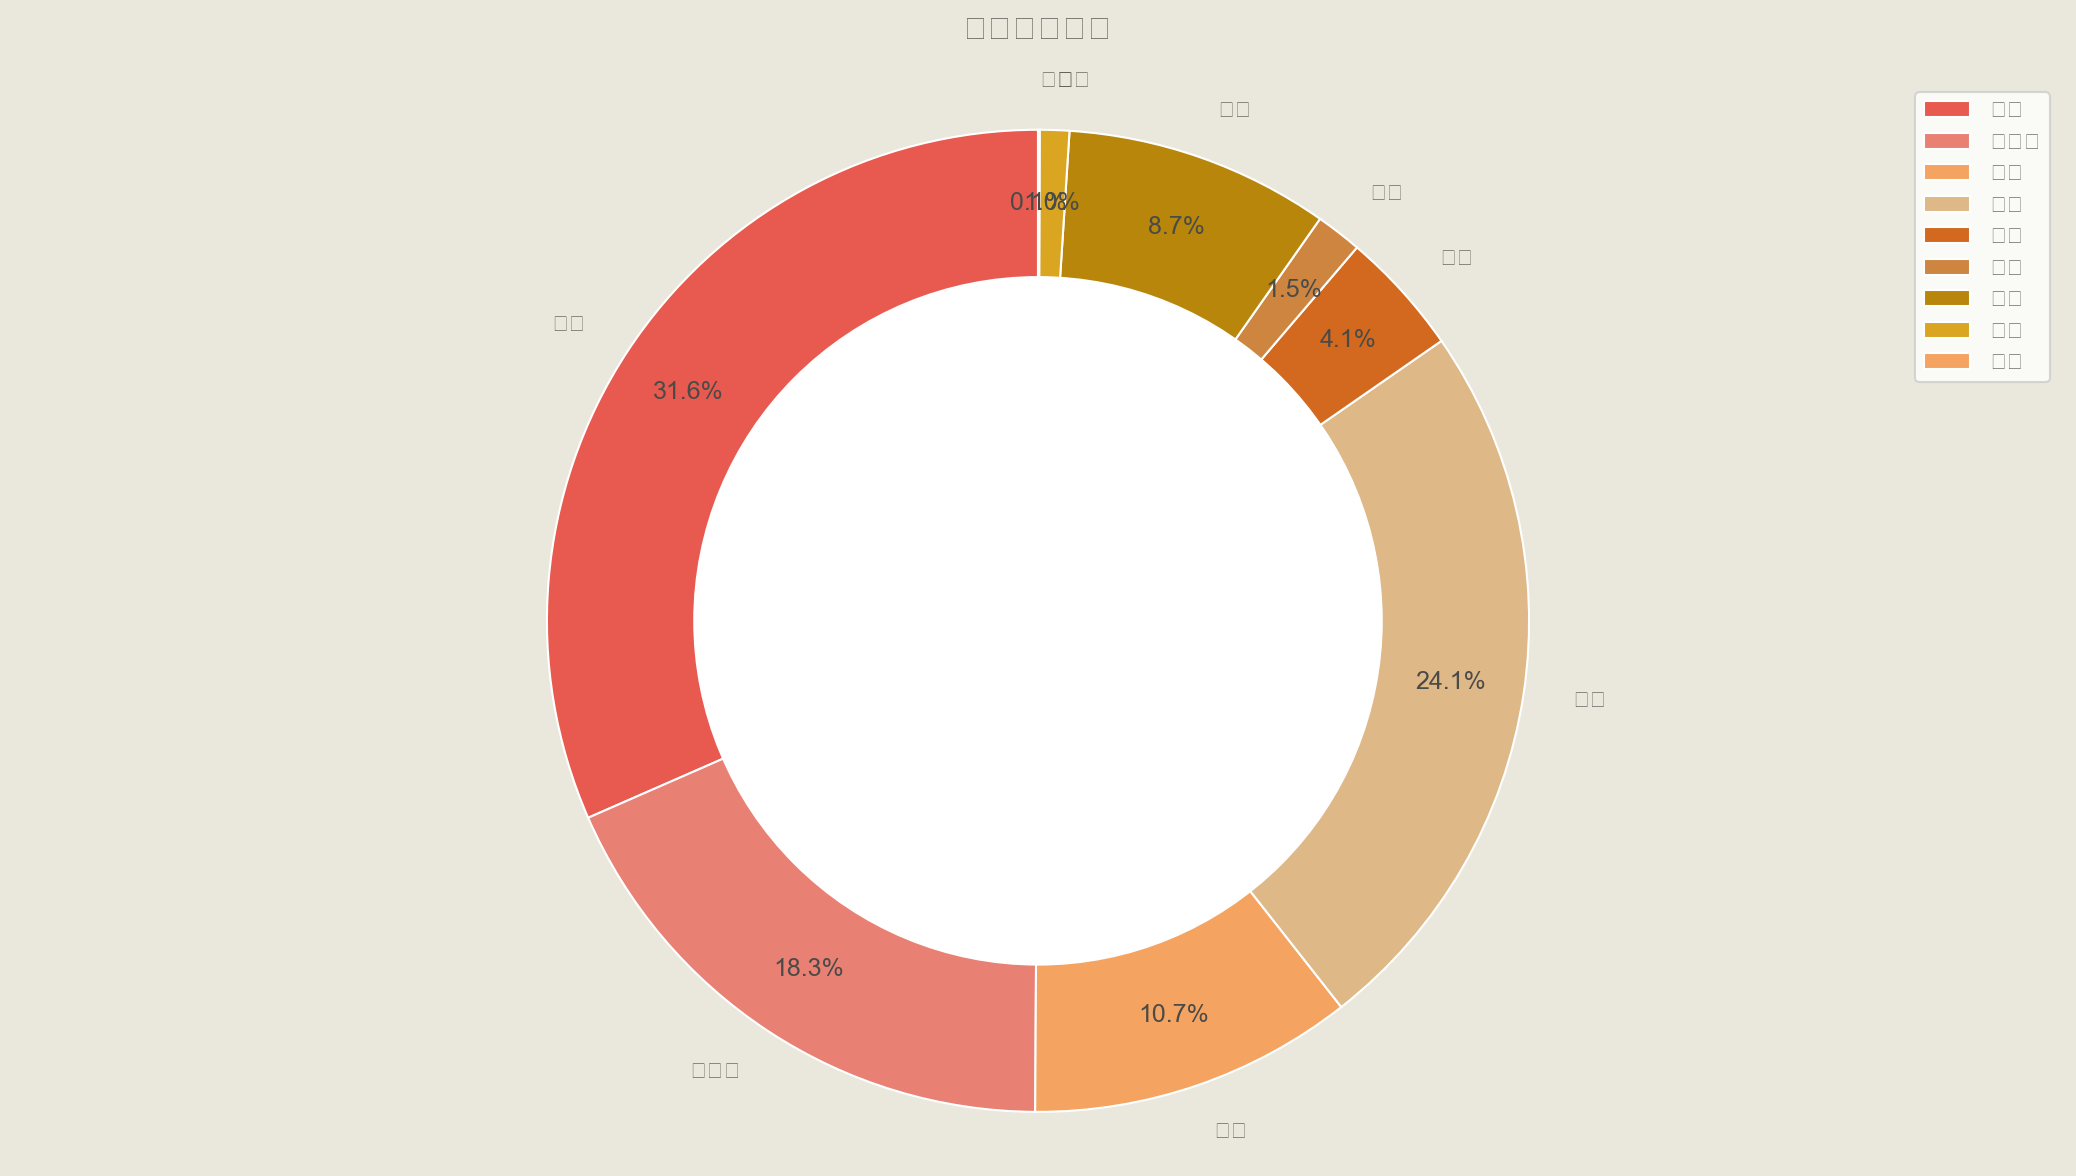
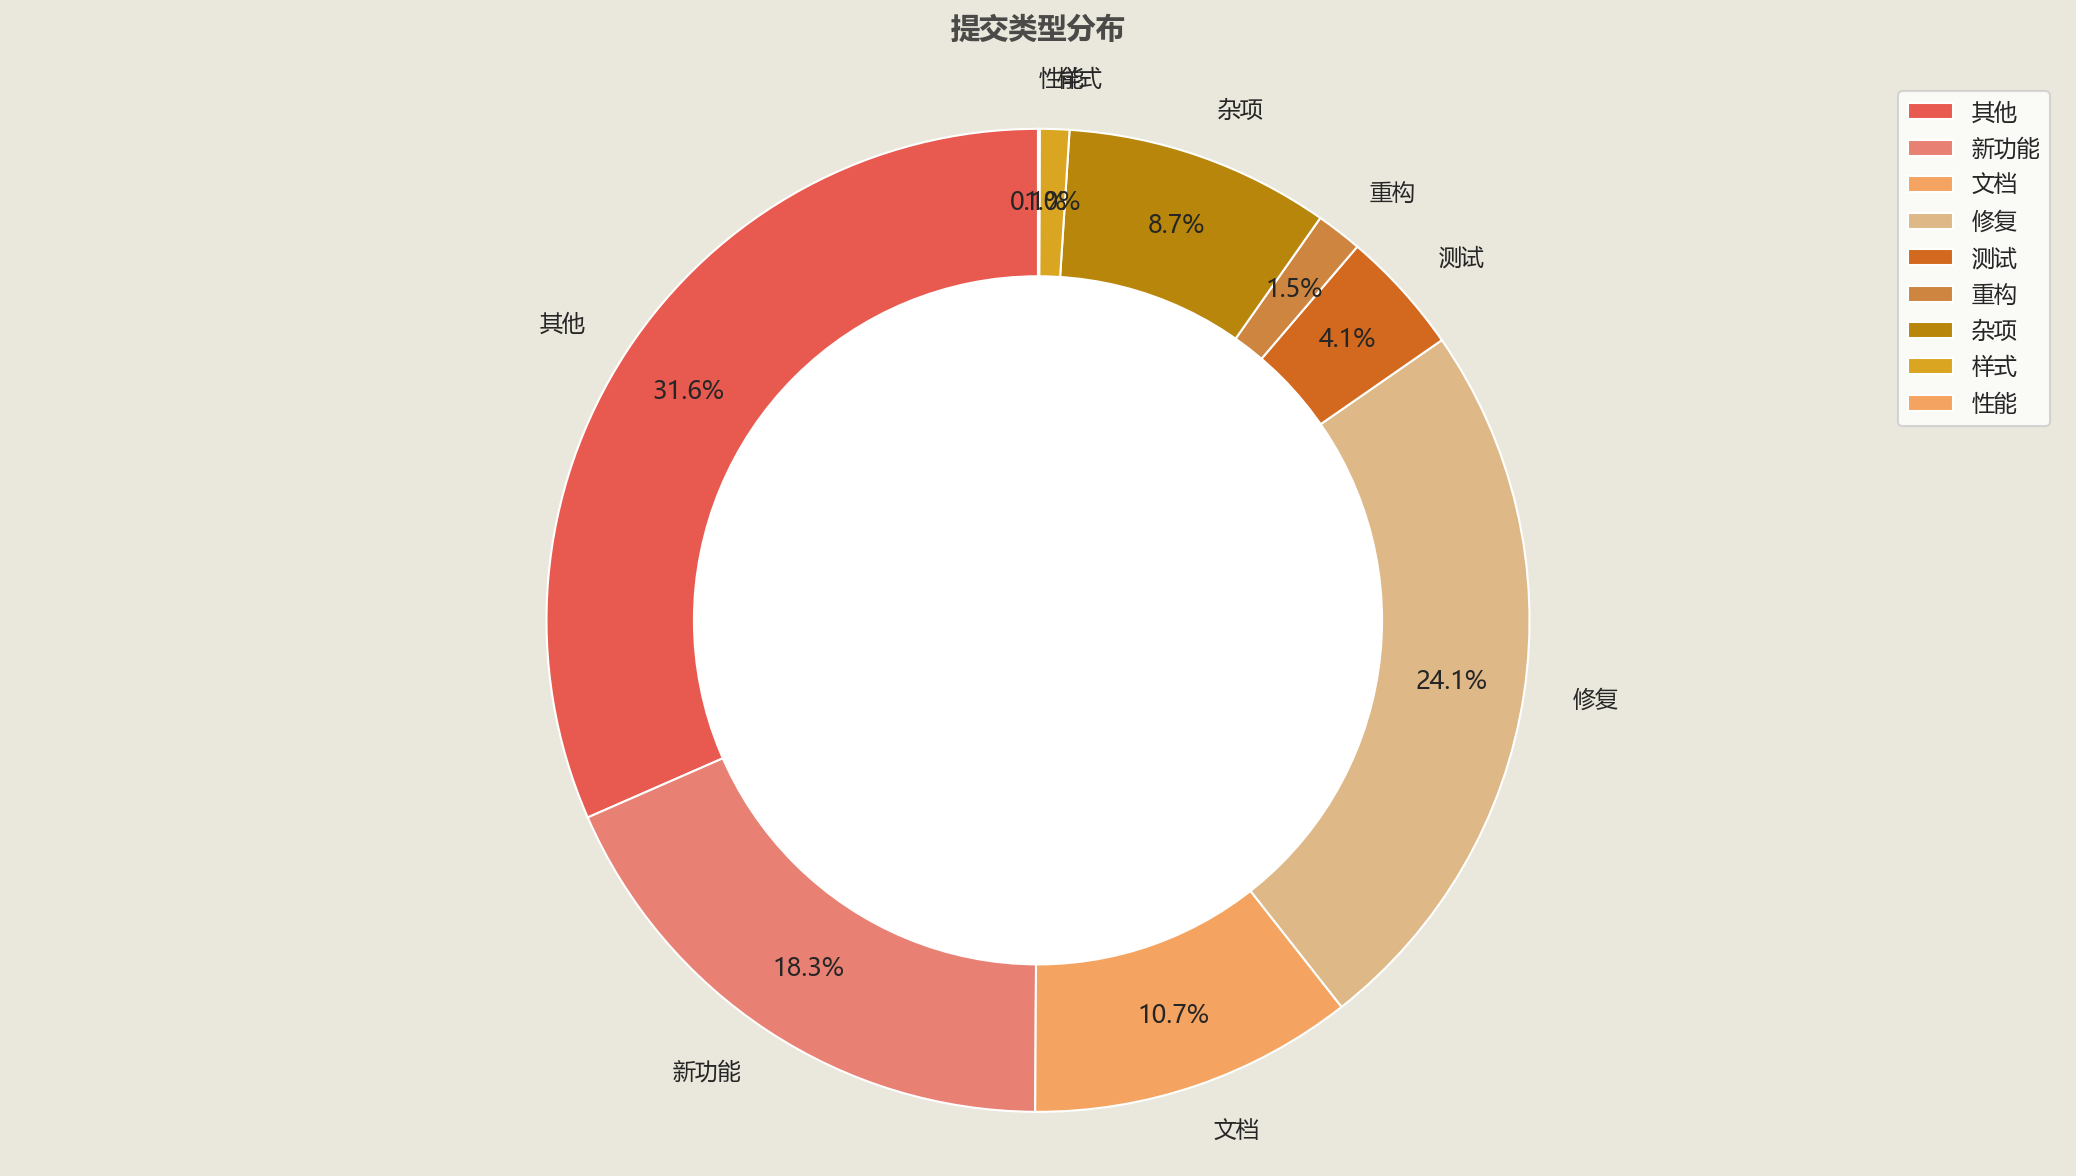
fix: 修复中文字体显示方块问题

diff --git a/src/analyzers/loc_analyzer.py b/src/analyzers/loc_analyzer.py
@@ -1,0 +1,137 @@
+# -*- coding: utf-8 -*-
+"""
+代码行数统计分析模块
+"""
+
+import os
+from pathlib import Path
+from typing import Dict, List, Tuple
+from collections import defaultdict
+import logging
+
+logger = logging.getLogger(__name__)
+
+LANGUAGE_EXTENSIONS = {
+    ".py": "Python",
+    ".js": "JavaScript",
+    ".ts": "TypeScript",
+    ".html": "HTML",
+    ".css": "CSS",
+    ".json": "JSON",
+    ".md": "Markdown",
+    ".rst": "reStructuredText",
+    ".yml": "YAML",
+    ".yaml": "YAML",
+    ".txt": "Text",
+    ".sh": "Shell",
+    ".bat": "Batch",
+    ".sql": "SQL",
+    ".xml": "XML",
+    ".toml": "TOML",
+    ".ini": "INI",
+    ".cfg": "Config",
+}
+
+IGNORE_DIRS = {
+    "__pycache__", ".git", ".svn", ".hg", "node_modules",
+    "venv", ".venv", "env", ".env", "build", "dist",
+    ".tox", ".pytest_cache", ".mypy_cache", ".eggs",
+}
+
+
+class LOCAnalyzer:
+    """代码行数分析器"""
+    
+    def __init__(self, root_path: str):
+        self.root_path = Path(root_path)
+        self.stats: Dict[str, Dict] = defaultdict(lambda: {"files": 0, "lines": 0, "blank": 0, "comment": 0})
+    
+    def count_lines(self, file_path: Path) -> Tuple[int, int, int]:
+        """
+        统计文件行数
+        
+        Returns:
+            (总行数, 空行数, 注释行数)
+        """
+        total = 0
+        blank = 0
+        comment = 0
+        
+        try:
+            with open(file_path, "r", encoding="utf-8", errors="ignore") as f:
+                in_multiline_comment = False
+                
+                for line in f:
+                    total += 1
+                    stripped = line.strip()
+                    
+                    if not stripped:
+                        blank += 1
+                        continue
+                    
+                    if file_path.suffix == ".py":
+                        if stripped.startswith('"""') or stripped.startswith("'''"):
+                            if in_multiline_comment:
+                                in_multiline_comment = False
+                            else:
+                                in_multiline_comment = True
+                            comment += 1
+                        elif in_multiline_comment:
+                            comment += 1
+                        elif stripped.startswith("#"):
+                            comment += 1
+                    elif file_path.suffix in [".js", ".ts", ".css"]:
+                        if stripped.startswith("//"):
+                            comment += 1
+                        elif stripped.startswith("/*"):
+                            in_multiline_comment = True
+                            comment += 1
+                        elif stripped.endswith("*/"):
+                            in_multiline_comment = False
+                            comment += 1
+                        elif in_multiline_comment:
+                            comment += 1
+                    elif file_path.suffix == ".html":
+                        if "<!--" in stripped:
+                            comment += 1
+                            
+        except Exception as e:
+            logger.debug(f"无法读取文件 {file_path}: {e}")
+        
+        return total, blank, comment
+    
+    def analyze(self) -> Dict[str, Dict]:
+        """分析整个目录"""
+        for root, dirs, files in os.walk(self.root_path):
+            dirs[:] = [d for d in dirs if d not in IGNORE_DIRS]
+            
+            for filename in files:
+                file_path = Path(root) / filename
+                ext = file_path.suffix.lower()
+                
+                if ext in LANGUAGE_EXTENSIONS:
+                    lang = LANGUAGE_EXTENSIONS[ext]
+                    total, blank, comment = self.count_lines(file_path)
+                    
+                    self.stats[lang]["files"] += 1
+                    self.stats[lang]["lines"] += total
+                    self.stats[lang]["blank"] += blank
+                    self.stats[lang]["comment"] += comment
+        
+        return dict(self.stats)
+    
+    def get_summary(self) -> Dict:
+        """获取汇总统计"""
+        total_files = sum(s["files"] for s in self.stats.values())
+        total_lines = sum(s["lines"] for s in self.stats.values())
+        total_blank = sum(s["blank"] for s in self.stats.values())
+        total_comment = sum(s["comment"] for s in self.stats.values())
+        
+        return {
+            "total_files": total_files,
+            "total_lines": total_lines,
+            "total_blank": total_blank,
+            "total_comment": total_comment,
+            "code_lines": total_lines - total_blank - total_comment,
+            "by_language": dict(self.stats),
+        }

diff --git a/src/utils/font_config.py b/src/utils/font_config.py
@@ -1,80 +1,60 @@
 # -*- coding: utf-8 -*-
 """
 中文字体配置模块
-为matplotlib图表提供完整的中文显示支持
+确保matplotlib图表中文正常显示
 """
 
 import platform
-from pathlib import Path
-from typing import Optional
 import warnings
+from pathlib import Path
 
 import matplotlib.pyplot as plt
 import matplotlib.font_manager as fm
 
-_is_configured: bool = False
+_configured = False
 
 
 def configure_chinese_font() -> bool:
-    """
-    配置matplotlib使用中文字体
-    """
-    global _is_configured
+    """配置中文字体"""
+    global _configured
     
-    if _is_configured:
+    if _configured:
         return True
     
-    # 抑制字体警告
-    warnings.filterwarnings('ignore', category=UserWarning, module='matplotlib')
+    warnings.filterwarnings('ignore', category=UserWarning)
     
-    system = platform.system()
-    
-    if system == "Windows":
-        # Windows系统字体
-        font_options = [
-            "Microsoft YaHei",
-            "SimHei", 
-            "SimSun",
-            "KaiTi",
-        ]
-        
-        # 配置字体
-        plt.rcParams['font.sans-serif'] = font_options + ['DejaVu Sans']
-        plt.rcParams['font.family'] = 'sans-serif'
-        plt.rcParams['axes.unicode_minus'] = False
-        
-        # 尝试直接添加字体文件
-        font_paths = [
-            "C:/Windows/Fonts/msyh.ttc",
-            "C:/Windows/Fonts/simhei.ttf",
-        ]
-        
-        for fp in font_paths:
-            if Path(fp).exists():
-                try:
-                    fm.fontManager.addfont(fp)
-                except:
-                    pass
+    if platform.system() == "Windows":
+        font_path = Path("C:/Windows/Fonts/msyh.ttc")
+        if font_path.exists():
+            try:
+                fm.fontManager.addfont(str(font_path))
+                font_prop = fm.FontProperties(fname=str(font_path))
+                font_name = font_prop.get_name()
+                
+                plt.rcParams['font.sans-serif'] = [font_name, 'Microsoft YaHei', 'SimHei', 'DejaVu Sans']
+            except Exception as e:
+                plt.rcParams['font.sans-serif'] = ['Microsoft YaHei', 'SimHei', 'DejaVu Sans']
+        else:
+            plt.rcParams['font.sans-serif'] = ['Microsoft YaHei', 'SimHei', 'DejaVu Sans']
     else:
         plt.rcParams['font.sans-serif'] = ['DejaVu Sans']
-        plt.rcParams['axes.unicode_minus'] = False
     
-    _is_configured = True
+    plt.rcParams['font.family'] = 'sans-serif'
+    plt.rcParams['axes.unicode_minus'] = False
+    
+    _configured = True
     return True
 
 
-def get_chinese_font() -> Optional[fm.FontProperties]:
-    """获取中文字体属性对象"""
+def get_chinese_font():
+    """获取中文字体属性"""
     configure_chinese_font()
-    
-    font_path = "C:/Windows/Fonts/msyh.ttc"
-    if Path(font_path).exists():
-        return fm.FontProperties(fname=font_path)
-    
+    font_path = Path("C:/Windows/Fonts/msyh.ttc")
+    if font_path.exists():
+        return fm.FontProperties(fname=str(font_path))
     return None
 
 
 def get_font_name() -> str:
-    """获取配置的中文字体名称"""
-    configure_chinese_font()
+    """获取字体名称"""
     return "Microsoft YaHei"

diff --git a/src/visualizers/style.py b/src/visualizers/style.py
@@ -1,10 +1,11 @@
 # -*- coding: utf-8 -*-
 """
 样式模块
-提供暖色系配色和图表样式配置
+暖色系配色和图表样式
 """
 
 import matplotlib.pyplot as plt
+import matplotlib.font_manager as fm
 import seaborn as sns
 import warnings
 from typing import Dict, List, Any, Optional
@@ -19,29 +20,23 @@ from src.config import (
     FIGURE_DPI,
 )
 
-_style_configured = False
-
 
 def apply_style() -> None:
-    """
-    应用项目的视觉样式到matplotlib和seaborn
-    """
-    global _style_configured
-    
-    if _style_configured:
-        return
-    
+    """应用样式和中文字体"""
     warnings.filterwarnings('ignore', category=UserWarning)
     
     font_path = Path("C:/Windows/Fonts/msyh.ttc")
     if font_path.exists():
-        import matplotlib.font_manager as fm
         try:
             fm.fontManager.addfont(str(font_path))
+            font_prop = fm.FontProperties(fname=str(font_path))
+            font_name = font_prop.get_name()
+            plt.rcParams['font.sans-serif'] = [font_name, 'Microsoft YaHei', 'SimHei']
         except:
-            pass
+            plt.rcParams['font.sans-serif'] = ['Microsoft YaHei', 'SimHei', 'DejaVu Sans']
+    else:
+        plt.rcParams['font.sans-serif'] = ['Microsoft YaHei', 'SimHei', 'DejaVu Sans']
     
-    plt.rcParams['font.sans-serif'] = ['Microsoft YaHei', 'SimHei', 'DejaVu Sans']
     plt.rcParams['font.family'] = 'sans-serif'
     plt.rcParams['axes.unicode_minus'] = False
     
@@ -55,38 +50,38 @@ def apply_style() -> None:
     plt.rcParams["figure.dpi"] = FIGURE_DPI
 
     sns.set_theme(style="whitegrid", palette=WARM_PALETTE)
-
+    
     plt.rcParams['font.sans-serif'] = ['Microsoft YaHei', 'SimHei', 'DejaVu Sans']
     plt.rcParams['axes.unicode_minus'] = False
-    
-    _style_configured = True
 
 
 def get_color(name: str) -> str:
-    """获取指定颜色"""
+    """获取颜色"""
     return WARM_COLORS.get(name, WARM_COLORS["primary"])
 
 
 def get_palette() -> List[str]:
-    """获取暖色系调色板"""
+    """获取调色板"""
     return WARM_PALETTE
 
 
 def get_cmap() -> Any:
-    """获取暖色系colormap"""
+    """获取colormap"""
     return WARM_CMAP
 
 
 def save_plot(filename: str, title: Optional[str] = None) -> None:
-    """
-    保存图表
-    """
+    """保存图表"""
     import os
     
     if title:
-        plt.title(
-            title, pad=20, fontsize=14, fontweight="bold", color=WARM_COLORS["dark"]
-        )
+        font_path = Path("C:/Windows/Fonts/msyh.ttc")
+        if font_path.exists():
+            font_prop = fm.FontProperties(fname=str(font_path))
+            plt.title(title, pad=20, fontsize=14, fontweight="bold", 
+                     color=WARM_COLORS["dark"], fontproperties=font_prop)
+        else:
+            plt.title(title, pad=20, fontsize=14, fontweight="bold", color=WARM_COLORS["dark"])
 
     plt.tight_layout()
     
